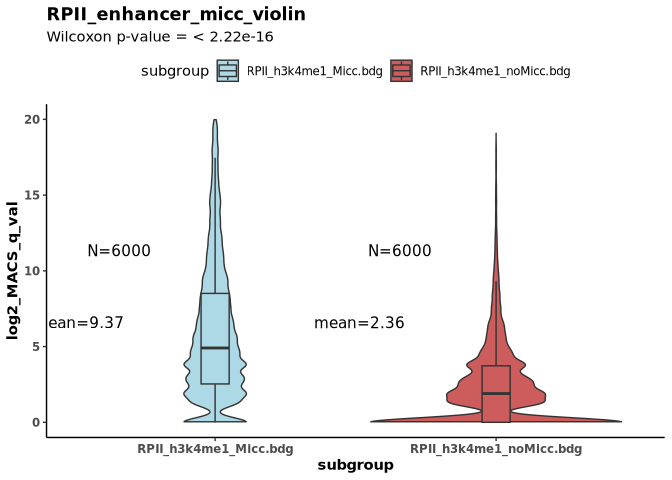
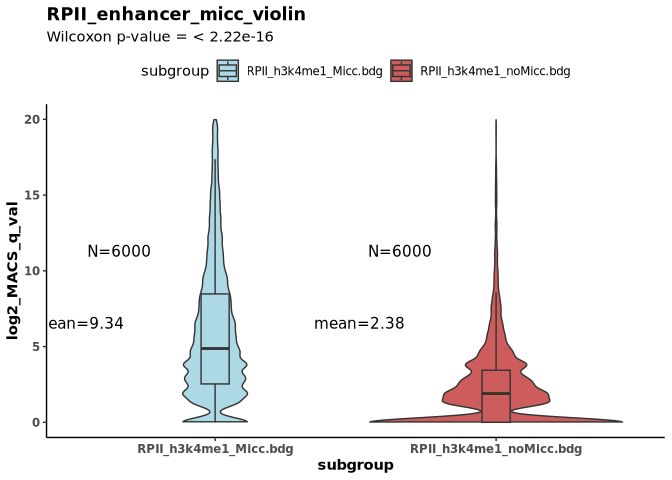
update

diff --git a/figs/enhancer_Micc_noMicc/RPII_enhancer_micc_violin.md b/figs/enhancer_Micc_noMicc/RPII_enhancer_micc_violin.md
@@ -1,7 +1,7 @@
 RPII_enhancer_micc_violin
 ================
 <yemingxie@gmail.com>
-Wed Aug 20 18:21:09 2025
+Thu Aug 21 10:46:38 2025
 
 ``` r
 knitr::opts_chunk$set(echo = TRUE)
@@ -55,12 +55,12 @@ head(all_data)
 ```
 
     ##         V1        V2        V3        V4              subgroup feature_val
-    ## 7870  chrX 107070365 107070700  8.590909 RPII_h3k4me1_Micc.bdg    8.590909
-    ## 327   chr1  55008443  55008712  3.800000 RPII_h3k4me1_Micc.bdg    3.800000
-    ## 7518  chr8 103877120 103877418 13.550000 RPII_h3k4me1_Micc.bdg   13.550000
-    ## 5494 chr22  29976264  29976551  4.342857 RPII_h3k4me1_Micc.bdg    4.342857
-    ## 4066 chr19  14544823  14545295  5.500000 RPII_h3k4me1_Micc.bdg    5.500000
-    ## 417   chr1  68698825  68699264  4.871429 RPII_h3k4me1_Micc.bdg    4.871429
+    ## 6885  chr6 111194749 111195112  2.850000 RPII_h3k4me1_Micc.bdg    2.850000
+    ## 4587 chr19  55684955  55685285 29.742308 RPII_h3k4me1_Micc.bdg   29.742308
+    ## 2913 chr16  29910046  29910429  2.412500 RPII_h3k4me1_Micc.bdg    2.412500
+    ## 4941  chr2 133028235 133028638 52.483562 RPII_h3k4me1_Micc.bdg   52.483562
+    ## 7374  chr7 149387386 149387745  3.166667 RPII_h3k4me1_Micc.bdg    3.166667
+    ## 597   chr1 145399785 145400172 12.235294 RPII_h3k4me1_Micc.bdg   12.235294
 
 ``` r
 summ <- all_data %>%
@@ -74,8 +74,8 @@ summ
     ## # A tibble: 2 × 5
     ##   subgroup                    n  mean max_val    sd
     ##   <chr>                   <int> <dbl>   <dbl> <dbl>
-    ## 1 RPII_h3k4me1_Micc.bdg    6000  9.37  1774.  35.9 
-    ## 2 RPII_h3k4me1_noMicc.bdg  6000  2.36    51.5  3.00
+    ## 1 RPII_h3k4me1_Micc.bdg    6000  9.34   1774. 35.7 
+    ## 2 RPII_h3k4me1_noMicc.bdg  6000  2.38    139.  4.03
 
 ``` r
 levels(factor(all_data$subgroup))
@@ -104,7 +104,7 @@ p1<-ggplot(all_data, aes(x=subgroup, y=feature_val, fill=subgroup)) +
 print(p1)
 ```
 
-    ## Warning: Removed 428 rows containing non-finite outside the scale range
+    ## Warning: Removed 437 rows containing non-finite outside the scale range
     ## (`stat_signif()`).
 
     ## Warning: Removed 3 rows containing missing values or values outside the scale
@@ -117,7 +117,7 @@ pdf(paste0(plot_title,'.pdf'))
 print(p1)
 ```
 
-    ## Warning: Removed 428 rows containing non-finite outside the scale range (`stat_signif()`).
+    ## Warning: Removed 437 rows containing non-finite outside the scale range (`stat_signif()`).
     ## Removed 3 rows containing missing values or values outside the scale range (`geom_signif()`).
 
 ``` r
